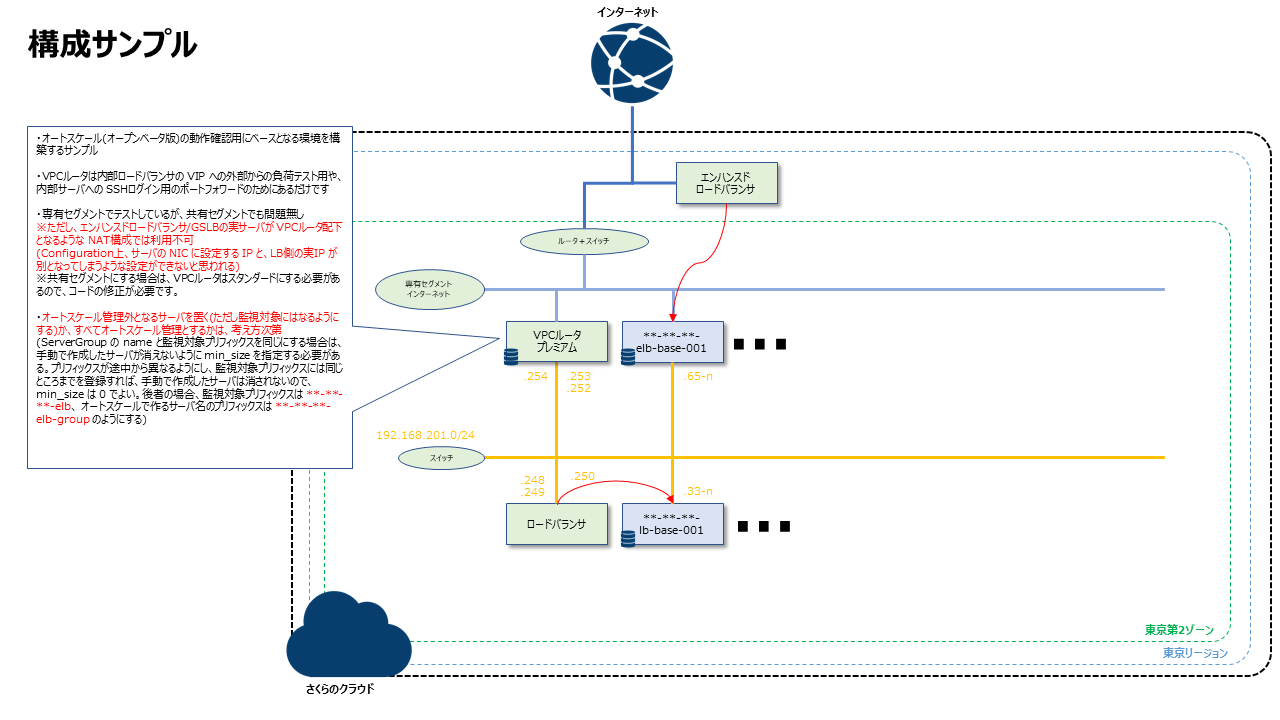
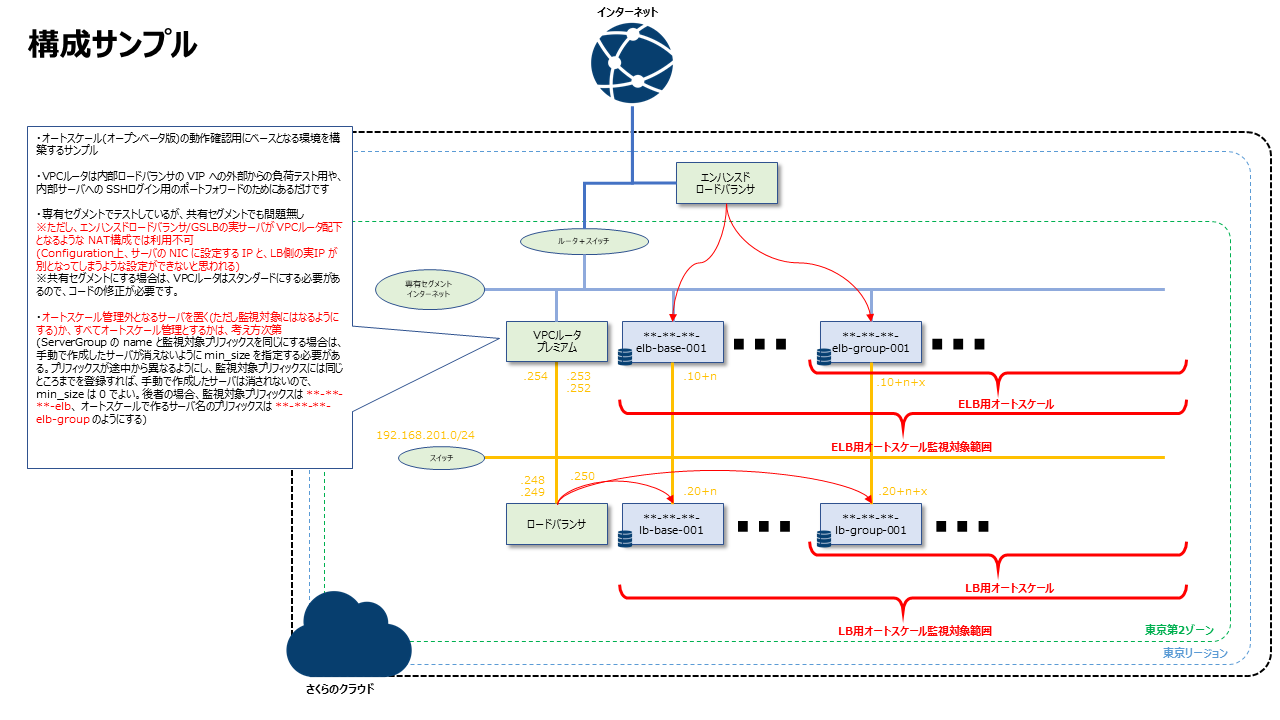
update 2022060601

diff --git a/autoscale/README.md b/autoscale/README.md
@@ -15,6 +15,7 @@ cd sakura_sample/autoscale
 ```
 SAKURACLOUD_ACCESS_TOKEN_SECRET=******************** → シークレットキー
 SAKURACLOUD_ACCESS_TOKEN=*************************** → アクセスキー
+TF_VAR_api_key_id=********************************** → オートスケール実行用APIキーのリソースID
 TF_VAR_def_pass=************************************ → サーバに設定する rootパスワード
 TF_VAR_office_cidr=**.**.**.**/**                    → サーバへの SSHアクセス等を許可する送信元
 TF_VAR_my_domain=****.com                            → さくらのクラウドにゾーン追加しているドメイン(無ければ設定不要)
@@ -39,6 +40,7 @@ terraform apply
 
 * ドメインの利用がある場合([sakuracloud_proxylb_acme](https://registry.terraform.io/providers/sacloud/sakuracloud/latest/docs/resources/proxylb_acme) を利用している場合)、エンハンスドロードバランサのルールのみ、なぜか作成されません(バグ？)。
 再度 apply を実行すれば追加されるので、お手数ですが二度実行してください。
+ * sakuracloud v2.17.1 で修正されました
 
 * SSH鍵ファイルは [ssh_key_gen](https://registry.terraform.io/providers/sacloud/sakuracloud/latest/docs/resources/ssh_key_gen) で生成されるようにしています。
 `terrform apply` 実行後は以下のようにして、SSH鍵ファイルを作成ください。(`make apply` で実行した場合は不要です)
@@ -47,8 +49,6 @@ terraform apply
 terraform output -raw ssh_private_key > ~/.ssh/sshkey
 chmod 600 ~/.ssh/sshkey
 ```
-
-* 手動で別途作成するオートスケール設定にて、ELB側は `192.168.201.64/27`、LB側は `192.168.201.32/27` を assign_cidr_block に設定し、max_size は 5 にする想定のため、ここで作成するサーバに付与するプライベートIP はその前の部分になるように計算式を入れたり、必要な数の SSH用のポートフォワード設定が自動で入るようにしています。
 
 * 共有セグメントに変更したい場合は、変更箇所は以下です。
 
@@ -68,9 +68,27 @@ server.tf
 vpc_router.tf
 → public_network_interface ブロックをすべてコメントアウト
 → private_network_interface の vip をコメントアウトし、ip_addresses は [cidrhost(var.switch01["name"], var.vpc_router01["vip1"])] に変更する
+
+autoscale.tf
+→ elb_hscale01側の network_interfaces の 1つ目を upstream : "shared" に修正し、assign_cidr_block/assign_netmask_len/default_route の 3行は削除ください。
 ```
 
-## エンハンスドロードバランサでの水平オートスケールの設定サンプル
+* オートスケール設定も Terraform で実装してはいますが、現状実行時に以下のように表示されるとおり、まだオープンベータのサービスであることもあり、仕様が変更になる可能性がありますので、ご注意ください。また、本来は config を yamlencode で渡したいところでしたが、YAMLパーサーにバグがあるようで、不可でした。このため、jsonencode を利用しています。コントロールパネルでの設定ファイルが見づらくなりますが、ご了承ください。
+
+```
+│ Warning: Deprecated Resource
+│
+│   with sakuracloud_auto_scale.elb_hscale01,
+│   on autoscale.tf line 8, in resource "sakuracloud_auto_scale" "elb_hscale01":
+│    8: resource "sakuracloud_auto_scale" "elb_hscale01" {
+│
+│ sakuracloud_auto_scale is an experimental resource. Please note that you will need to
+│ update the tfstate manually if the resource schema is changed.
+│
+│ (and 3 more similar warnings elsewhere)
+```
+
+## エンハンスドロードバランサでの水平オートスケールの設定サンプル(YAML版)
 
 * 設定
 
@@ -113,7 +131,7 @@ resources:
         - upstream:
             names: ["shztki-dev-autoscale-router01"]
           packet_filter_id: 作成したリソースID
-          assign_cidr_block: "**.**.**.56/29" #.57 から順に割り当てられる
+          assign_cidr_block: "**.**.**.56/28" #.57 から順に割り当てられる
           assign_netmask_len: 28
           default_route: "**.**.**.49"
           expose:
@@ -122,7 +140,7 @@ resources:
 
         - upstream:
             names: ["shztki-dev-autoscale-192.168.201.0/24"]
-          assign_cidr_block: "192.168.201.64/27" #.65から順に割り当てられる
+          assign_cidr_block: "192.168.201.10/24" #.11から順に割り当てられる
           assign_netmask_len: 24
 
       disks:
@@ -174,7 +192,7 @@ autoscaler:
   cooldown: 300
 ```
 
-## ロードバランサでの水平オートスケールの設定サンプル
+## ロードバランサでの水平オートスケールの設定サンプル(YAML版)
 
 * 設定
 
@@ -211,7 +229,7 @@ resources:
         # eth0
         - upstream:
             names: ["shztki-dev-autoscale-192.168.201.0/24"]
-          assign_cidr_block: "192.168.201.32/27" #.33 から順に割り当てられる
+          assign_cidr_block: "192.168.201.20/24" #.21 から順に割り当てられる
           assign_netmask_len: 24
           default_route: "192.168.201.254"
           expose:
@@ -281,4 +299,4 @@ autoscaler:
 
 * オートスケールに耐えうる構成とする場合、起動テンプレートとなるようなマスターイメージの管理や、ログ等の外部保存、ステートレスな設計など、システムの構成をしっかり考える必要があります。  
 
-* 設定ファイル内で type を `ServerGroup` としたときの `name` の指定には、最大限注意するようにしてください。水平オートスケールで、万が一ここを指定しないと、すべてに合致するとみなされ、対象ゾーンに存在するすべてのサーバ/ディスクが削除されてしまう危険性があります( `min_size : 0` のとき)。また、短い単語等にしてしまうと、うっかり他のサーバにもマッチしてしまい、消される恐れもあります。本サンプルでは `shztki-dev-autoscale-elb-group` のようにあえて長くし、かつ一致することも無いようにしています。  
+* 設定ファイル内で type を `ServerGroup` としたときの `name (server_name_prefix)` の指定には、最大限注意するようにしてください。水平オートスケールで、万が一無関係のサーバ名にも合致してしまう場合、既存のサーバ/ディスクが削除されてしまう危険性があります( `min_size : 0` のとき)。本サンプルでは `shztki-dev-autoscale-elb-group` のようにあえて長くすることで、リスクが減るようにしています。  
